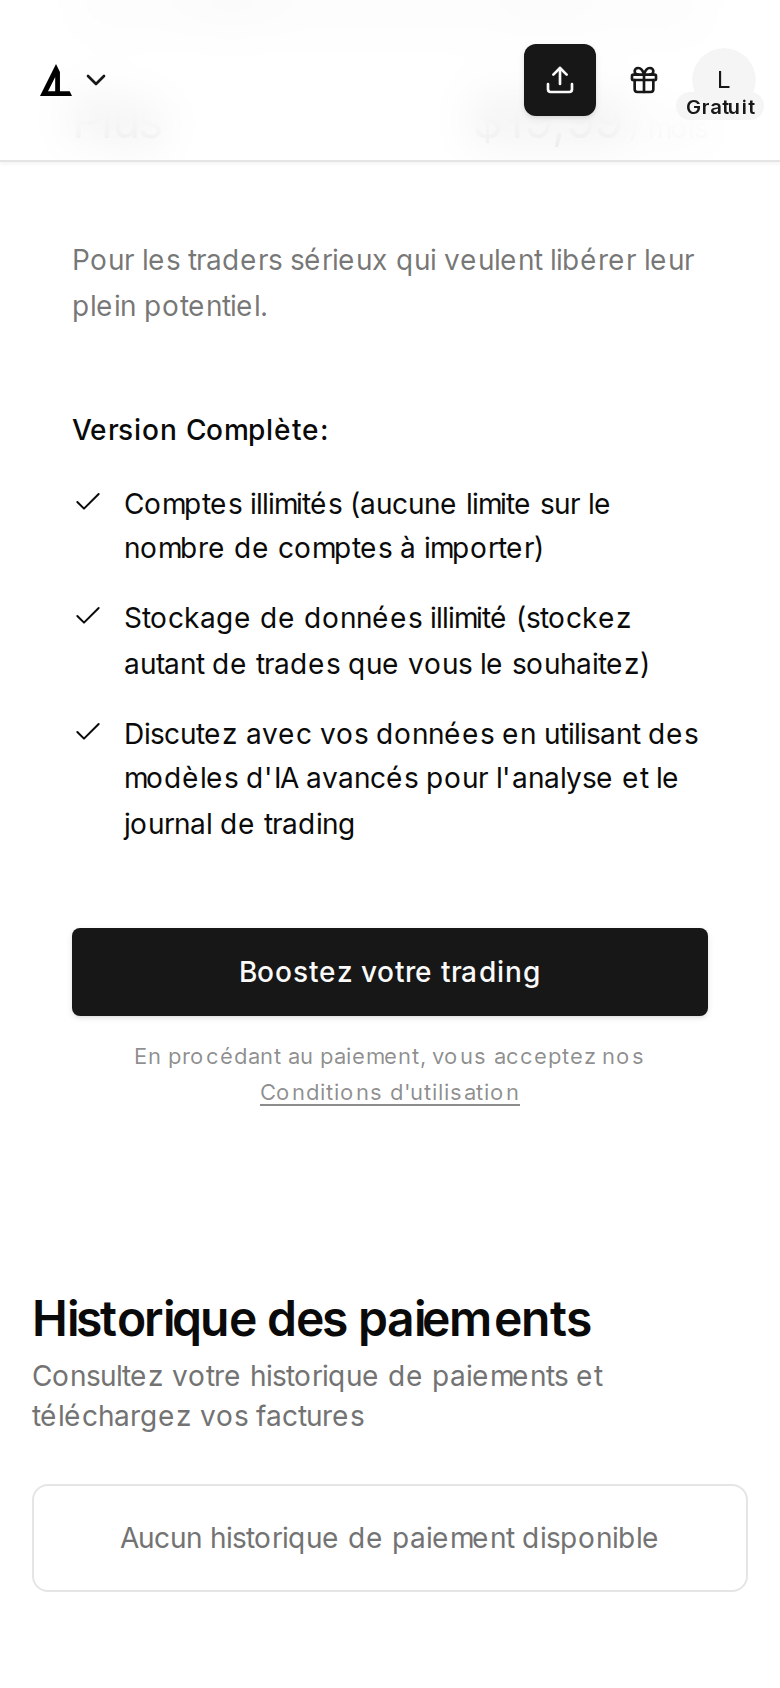
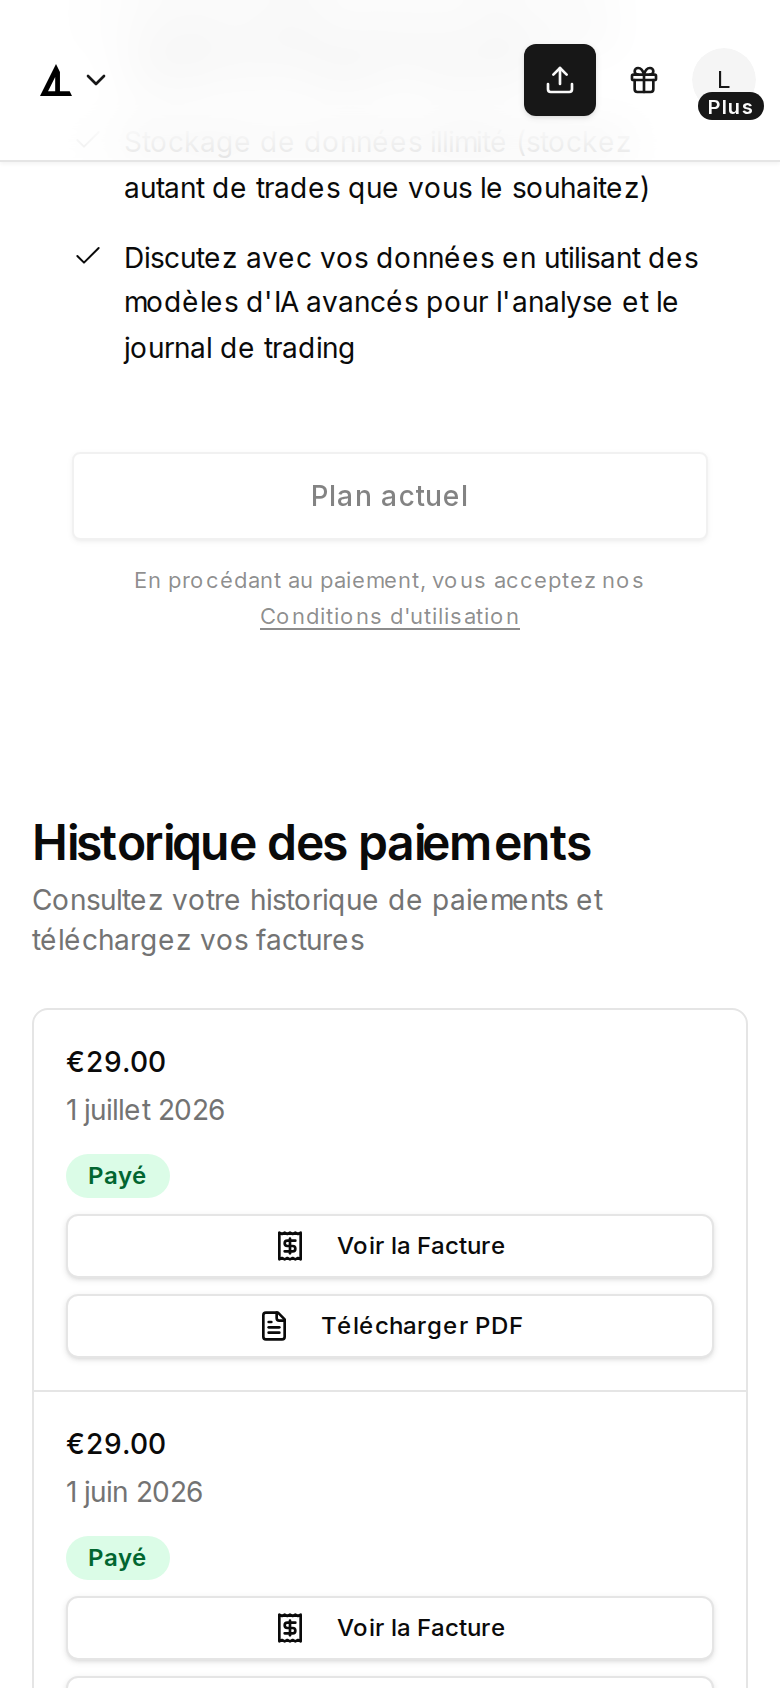
fix: show mock billing invoices in local bypass and recapture changelog screenshot
- Add local dashboard billing mock with three paid Plus invoices
- Load subscription via lightweight local-subscription server action
- Fall back to client-side mock on billing page when auth bypass is active
- Recapture EN/FR payment history screenshots with populated invoice rows

diff --git a/server/billing.ts b/server/billing.ts
@@ -1,18 +1,17 @@
 'use server'
 
 import { createClient } from '@/server/auth'
-import { cookies } from 'next/headers'
-import { PrismaClient } from '@/prisma/generated/prisma/client'
-import { PrismaPg } from '@prisma/adapter-pg'
 import { stripe } from '@/server/stripe'
 import Stripe from 'stripe'
 import { isLocalDashboardAuthBypassEnabled } from '@/lib/local-dashboard-auth'
+import { getLocalDashboardBillingMock } from '@/lib/local-dashboard-billing-mock'
 
-const adapter = new PrismaPg({
-  connectionString: process.env.DATABASE_URL,
-})
+export type { SubscriptionWithPrice } from '@/lib/subscription-types'
 
-const prisma = new PrismaClient({ adapter })
+async function getPrisma() {
+  const { prisma } = await import('@/lib/prisma')
+  return prisma
+}
 
 // Helper function to get current period end from subscription items
 function getCurrentPeriodEnd(subscription: Stripe.Subscription): number {
@@ -26,53 +25,17 @@ function getCurrentPeriodEnd(subscription: Stripe.Subscription): number {
   return subscription.billing_cycle_anchor;
 }
 
-export type SubscriptionWithPrice = {
-  id: string
-  status: string
-  current_period_end: number
-  current_period_start: number
-  created: number
-  cancel_at_period_end: boolean
-  cancel_at: number | null
-  canceled_at: number | null
-  trial_end: number | null
-  trial_start: number | null
-  plan: {
-    id: string
-    name: string
-    amount: number
-    interval: 'month' | 'quarter' | 'year' | 'lifetime'
-  }
-  promotion?: {
-    code: string
-    amount_off: number
-    percent_off: number | null
-    duration: {
-      duration_in_months: number | null
-      duration: 'forever' | 'once' | 'repeating' | null
-    }
-  }
-  invoices?: Array<{
-    id: string
-    amount_paid: number
-    status: string
-    created: number
-    invoice_pdf: string | null
-    hosted_invoice_url: string | null
-  }>
-}
-
 export async function getSubscriptionData() {
   console.debug('getSubscriptionData')
 
   if (isLocalDashboardAuthBypassEnabled()) {
-    return null
+    return getLocalDashboardBillingMock()
   }
 
+  const prisma = await getPrisma()
   const supabase = await createClient()
 
   try {
-    // Get the current user
     const { data: { user } } = await supabase.auth.getUser()
     if (!user?.email) throw new Error('User not found')
 
@@ -415,7 +378,7 @@ export async function collectSubscriptionFeedback(
     if (!user?.email) throw new Error('User not found')
 
     // Create feedback record
-    await prisma.subscriptionFeedback.create({
+    await (await getPrisma()).subscriptionFeedback.create({
       data: {
         email: user.email,
         event,
@@ -480,7 +443,7 @@ export async function switchSubscriptionPlan(newLookupKey: string) {
         await stripe.subscriptions.cancel(currentSubscription.id)
 
         // Update local database
-        await prisma.subscription.update({
+        await (await getPrisma()).subscription.update({
           where: {
             email: user.email,
           },
@@ -541,7 +504,7 @@ export async function switchSubscriptionPlan(newLookupKey: string) {
 
     const currentPeriodEnd = getCurrentPeriodEnd(updatedSubscription);
 
-    await prisma.subscription.update({
+    await (await getPrisma()).subscription.update({
       where: {
         email: user.email,
       },

diff --git a/lib/local-dashboard-billing-mock.ts b/lib/local-dashboard-billing-mock.ts
@@ -1,0 +1,57 @@
+import type { SubscriptionWithPrice } from '@/lib/subscription-types'
+
+function unixSeconds(year: number, month: number, day: number): number {
+  return Math.floor(Date.UTC(year, month - 1, day) / 1000)
+}
+
+/** Demo subscription + invoices for local dashboard auth bypass and changelog captures. */
+export function getLocalDashboardBillingMock(): SubscriptionWithPrice {
+  const periodStart = unixSeconds(2026, 7, 1)
+  const periodEnd = unixSeconds(2026, 8, 1)
+  const created = unixSeconds(2026, 5, 1)
+
+  return {
+    id: 'local_demo_subscription',
+    status: 'active',
+    current_period_start: periodStart,
+    current_period_end: periodEnd,
+    created,
+    cancel_at_period_end: false,
+    cancel_at: null,
+    canceled_at: null,
+    trial_end: null,
+    trial_start: null,
+    plan: {
+      id: 'local_demo_plus_monthly',
+      name: 'Plus',
+      amount: 2900,
+      interval: 'month',
+    },
+    invoices: [
+      {
+        id: 'local_demo_invoice_jul_2026',
+        amount_paid: 2900,
+        status: 'paid',
+        created: unixSeconds(2026, 7, 1),
+        invoice_pdf: '#',
+        hosted_invoice_url: '#',
+      },
+      {
+        id: 'local_demo_invoice_jun_2026',
+        amount_paid: 2900,
+        status: 'paid',
+        created: unixSeconds(2026, 6, 1),
+        invoice_pdf: '#',
+        hosted_invoice_url: '#',
+      },
+      {
+        id: 'local_demo_invoice_may_2026',
+        amount_paid: 2900,
+        status: 'paid',
+        created: unixSeconds(2026, 5, 1),
+        invoice_pdf: '#',
+        hosted_invoice_url: '#',
+      },
+    ],
+  }
+}

diff --git a/lib/subscription-types.ts b/lib/subscription-types.ts
@@ -1,0 +1,35 @@
+export type SubscriptionWithPrice = {
+  id: string
+  status: string
+  current_period_end: number
+  current_period_start: number
+  created: number
+  cancel_at_period_end: boolean
+  cancel_at: number | null
+  canceled_at: number | null
+  trial_end: number | null
+  trial_start: number | null
+  plan: {
+    id: string
+    name: string
+    amount: number
+    interval: 'month' | 'quarter' | 'year' | 'lifetime'
+  }
+  promotion?: {
+    code: string
+    amount_off: number
+    percent_off: number | null
+    duration: {
+      duration_in_months: number | null
+      duration: 'forever' | 'once' | 'repeating' | null
+    }
+  }
+  invoices?: Array<{
+    id: string
+    amount_paid: number
+    status: string
+    created: number
+    invoice_pdf: string | null
+    hosted_invoice_url: string | null
+  }>
+}

diff --git a/app/[locale]/dashboard/billing/components/billing-management.tsx b/app/[locale]/dashboard/billing/components/billing-management.tsx
@@ -8,7 +8,10 @@ import { Check, AlertCircle, CheckCircle2, CalendarDays, Clock, CreditCard, Hist
 import { Dialog, DialogContent, DialogTrigger, DialogTitle, DialogDescription, DialogHeader, DialogFooter } from "@/components/ui/dialog"
 import { Badge } from "@/components/ui/badge"
 import { Skeleton } from "@/components/ui/skeleton"
-import { updateSubscription, collectSubscriptionFeedback, type SubscriptionWithPrice } from "../../../../../server/billing"
+import { updateSubscription, collectSubscriptionFeedback } from "../../../../../server/billing"
+import type { SubscriptionWithPrice } from "@/lib/subscription-types"
+import { getLocalDashboardBillingMock } from "@/lib/local-dashboard-billing-mock"
+import { isLocalDashboardAuthBypassEnabled } from "@/lib/local-dashboard-auth"
 import { toast } from "sonner"
 import { useI18n, useCurrentLocale } from "@/locales/client"
 import PricingPlans from "@/components/pricing-plans"
@@ -52,9 +55,14 @@ export default function BillingManagement() {
   const locale = useCurrentLocale()
   
   // Use store instead of local state
-  const subscription = useStripeSubscriptionStore(state => state.stripeSubscription)
-  const isLoading = useStripeSubscriptionStore(state => state.isLoading)
+  const stripeSubscription = useStripeSubscriptionStore(state => state.stripeSubscription)
+  const subscriptionLoading = useStripeSubscriptionStore(state => state.isLoading)
   const refreshSubscription = useStripeSubscriptionStore(state => state.refreshSubscription)
+
+  const useLocalBillingMock = isLocalDashboardAuthBypassEnabled()
+  const subscription =
+    stripeSubscription ?? (useLocalBillingMock ? getLocalDashboardBillingMock() : null)
+  const billingIsLoading = useLocalBillingMock ? false : subscriptionLoading
 
   // Add helper function for safe date formatting
   function formatStripeDate(
@@ -112,7 +120,7 @@ export default function BillingManagement() {
         <CardHeader className="px-0">
           <CardTitle>{t('billing.currentPlan')}</CardTitle>
           <div className="mt-1.5 text-sm text-muted-foreground flex items-center gap-2">
-            {isLoading ? (
+            {billingIsLoading ? (
               <>
                 <Skeleton className="h-4 w-[120px]" />
                 <span className="text-muted-foreground">•</span>
@@ -172,7 +180,7 @@ export default function BillingManagement() {
           <div className="rounded-lg border bg-card p-6 space-y-6">
             {/* Current Plan Details */}
             <div className="flex flex-col sm:flex-row sm:items-start justify-between gap-4">
-              {isLoading ? (
+              {billingIsLoading ? (
                 <>
                   <div className="space-y-2">
                     <Skeleton className="h-8 w-[140px]" />
@@ -260,7 +268,7 @@ export default function BillingManagement() {
             {/* Subscription Timeline */}
             <div className="space-y-4">
               <div className="grid gap-4 sm:grid-cols-2">
-                {isLoading ? (
+                {billingIsLoading ? (
                   <>
                     <div className="flex items-start gap-2">
                       <History className="h-5 w-5 text-muted-foreground shrink-0 mt-0.5" />
@@ -342,7 +350,7 @@ export default function BillingManagement() {
       </Card>
 
       {/* Subscription Management */}
-      {!isLoading && (subscription?.status === 'active' || subscription?.status === 'trialing') && subscription?.plan?.interval !== 'lifetime' && (
+      {!billingIsLoading && (subscription?.status === 'active' || subscription?.status === 'trialing') && subscription?.plan?.interval !== 'lifetime' && (
         <Card className="border-none shadow-none bg-transparent">
           <CardContent className="px-0">
             <div className="flex flex-col gap-4">
@@ -488,7 +496,7 @@ export default function BillingManagement() {
         </CardHeader>
         <CardContent className="px-0">
           <div className="rounded-lg border bg-card overflow-hidden">
-            {isLoading ? (
+            {billingIsLoading ? (
               <div className="p-4 space-y-4">
                 {[1, 2, 3].map((i) => (
                   <div key={i} className="flex flex-col gap-3 sm:flex-row sm:items-center sm:justify-between">

diff --git a/server/local-subscription.ts b/server/local-subscription.ts
@@ -1,0 +1,18 @@
+'use server'
+
+import { isLocalDashboardAuthBypassEnabled } from '@/lib/local-dashboard-auth'
+import { getLocalDashboardBillingMock } from '@/lib/local-dashboard-billing-mock'
+import type { SubscriptionWithPrice } from '@/lib/subscription-types'
+
+/** Loads subscription data without importing Stripe/Prisma when local bypass is active. */
+export async function getSubscriptionDataForDashboard(): Promise<SubscriptionWithPrice | null> {
+  if (
+    isLocalDashboardAuthBypassEnabled() ||
+    process.env.CHANGELOG_MEDIA_CAPTURE === '1'
+  ) {
+    return getLocalDashboardBillingMock()
+  }
+
+  const { getSubscriptionData } = await import('@/server/billing')
+  return getSubscriptionData()
+}

diff --git a/context/data-provider.tsx b/context/data-provider.tsx
@@ -63,7 +63,7 @@ import { useEquityChartStore } from "@/store/widgets/equity-chart-store";
 import { useEquityChartDataStore } from "@/store/widgets/equity-chart-data-store";
 import { useStripeSubscriptionStore } from "@/store/stripe-subscription-store";
 import { useBreakevenStore } from "@/store/widgets/breakeven-store";
-import { getSubscriptionData } from "@/server/billing";
+import { getSubscriptionDataForDashboard } from "@/server/local-subscription";
 import { computeEquityChartData } from "@/lib/equity-chart";
 import { defaultLayouts } from "@/lib/default-layouts";
 import { getTimeRangeKey } from "@/lib/time-range";
@@ -593,7 +593,7 @@ export const DataProvider: React.FC<{
       // Load Stripe subscription data
       try {
         setStripeSubscriptionLoading(true);
-        const stripeSubscriptionData = await getSubscriptionData();
+        const stripeSubscriptionData = await getSubscriptionDataForDashboard();
         setStripeSubscription(stripeSubscriptionData);
         setStripeSubscriptionError(null);
       } catch (error) {
@@ -652,7 +652,7 @@ export const DataProvider: React.FC<{
   const loadStripeSubscription = useCallback(async () => {
     try {
       setStripeSubscriptionLoading(true);
-      const stripeSubscriptionData = await getSubscriptionData();
+      const stripeSubscriptionData = await getSubscriptionDataForDashboard();
       setStripeSubscription(stripeSubscriptionData);
       setStripeSubscriptionError(null);
     } catch (error) {

diff --git a/store/stripe-subscription-store.ts b/store/stripe-subscription-store.ts
@@ -1,5 +1,5 @@
 import { create } from 'zustand'
-import { SubscriptionWithPrice } from '@/server/billing'
+import type { SubscriptionWithPrice } from '@/lib/subscription-types'
 
 interface StripeSubscriptionStore {
   // Stripe subscription data (detailed billing info)
@@ -39,8 +39,8 @@ export const useStripeSubscriptionStore = create<StripeSubscriptionStore>()((set
   refreshSubscription: async () => {
     try {
       set({ isLoading: true, error: null });
-      const { getSubscriptionData } = await import('@/server/billing');
-      const subscriptionData = await getSubscriptionData();
+      const { getSubscriptionDataForDashboard } = await import('@/server/local-subscription');
+      const subscriptionData = await getSubscriptionDataForDashboard();
       set({ 
         stripeSubscription: subscriptionData,
         error: null 

diff --git a/lib/local-dashboard-auth.ts b/lib/local-dashboard-auth.ts
@@ -11,7 +11,10 @@ function isTruthy(value: string | undefined): boolean {
 
 function isBypassRequestedFromEnv(): boolean {
   if (isServer) {
-    return isTruthy(process.env.LOCAL_DASHBOARD_AUTH_BYPASS)
+    return (
+      isTruthy(process.env.LOCAL_DASHBOARD_AUTH_BYPASS) ||
+      isTruthy(process.env.NEXT_PUBLIC_LOCAL_DASHBOARD_AUTH_BYPASS)
+    )
   }
 
   return isTruthy(process.env.NEXT_PUBLIC_LOCAL_DASHBOARD_AUTH_BYPASS)